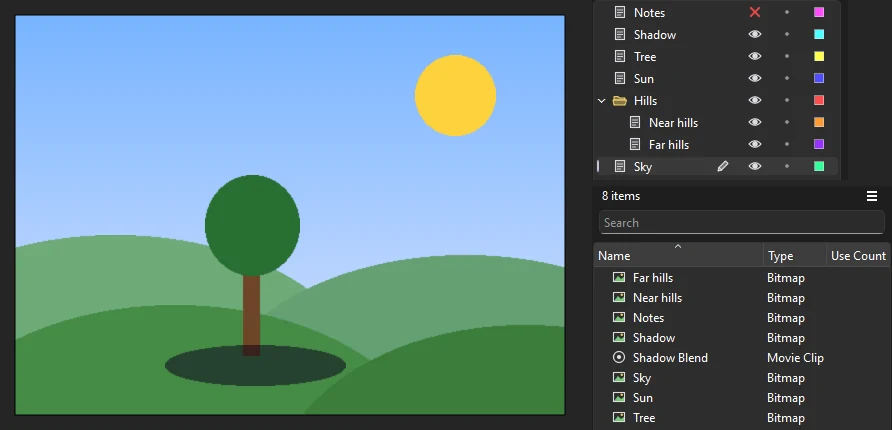
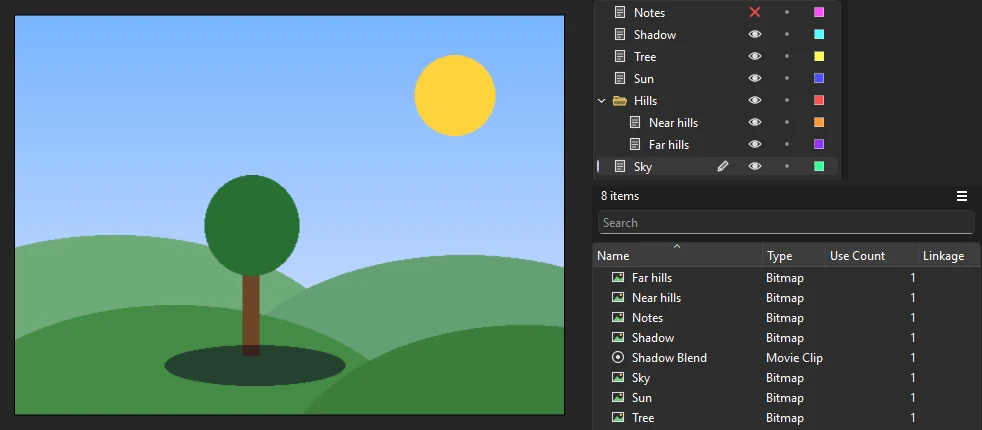
Docs: retake import panel shots at the wider dock width

diff --git a/docs/import.html b/docs/import.html
@@ -90,7 +90,7 @@
 <p>Import to Stage turns each layer of a PSD into a layer of its own, named as it was, above the current layer (and in its layer folder, if it has one). Each layer's pixels become a bitmap in the library, placed where they were on the canvas, so the picture looks as it did. Groups become layer folders, and hidden layers come in hidden. A layer's opacity and its layer mask are kept in its pixels.</p>
 
 <figure>
-  <img src="assets/shots/import-psd-layers.webp" alt="A landscape Photoshop file imported to the stage, with its layers Notes (hidden), Shadow, Tree, Sun, a Hills folder holding Near hills and Far hills, and Sky in the timeline, and the matching bitmaps and a Shadow Blend movie clip in the library" width="892" height="430">
+  <img src="assets/shots/import-psd-layers.webp" alt="A landscape Photoshop file imported to the stage, with its layers Notes (hidden), Shadow, Tree, Sun, a Hills folder holding Near hills and Far hills, and Sky in the timeline, and the matching bitmaps and a Shadow Blend movie clip in the library" width="982" height="430">
   <figcaption>A PSD imported to the stage: a layer per Photoshop layer, the group as a folder, the hidden layer hidden. The Shadow layer used Multiply, so its bitmap came in inside a movie clip that blends.</figcaption>
 </figure>
 
@@ -112,7 +112,7 @@
 <p>Vector files come in as artwork you can edit. Each filled or stroked path becomes a <a href="drawing-models.html">drawing object</a> with its fill, stroke color and stroke width; gradients become gradient fills; images become bitmaps in the library, placed where they were; and text becomes static text you can edit. On the stage, everything is grouped as one piece of artwork, in the order it was drawn, at the top-left of the stage. Import to Library makes a graphic symbol named after the file instead, with the artwork inside.</p>
 
 <figure>
-  <img src="assets/shots/import-svg.webp" alt="An SVG badge imported to the stage: a rounded rectangle with an orange to pink gradient, a radial gradient sun, dark hills and the word Sunset, selected as one Group of 306 by 226 pixels in the Properties panel" width="712" height="285">
+  <img src="assets/shots/import-svg.webp" alt="An SVG badge imported to the stage: a rounded rectangle with an orange to pink gradient, a radial gradient sun, dark hills and the word Sunset, selected as one Group of 306 by 226 pixels in the Properties panel" width="802" height="285">
   <figcaption>An SVG imported to the stage arrives as one group. Its gradients, curves and text stay editable.</figcaption>
 </figure>
 
